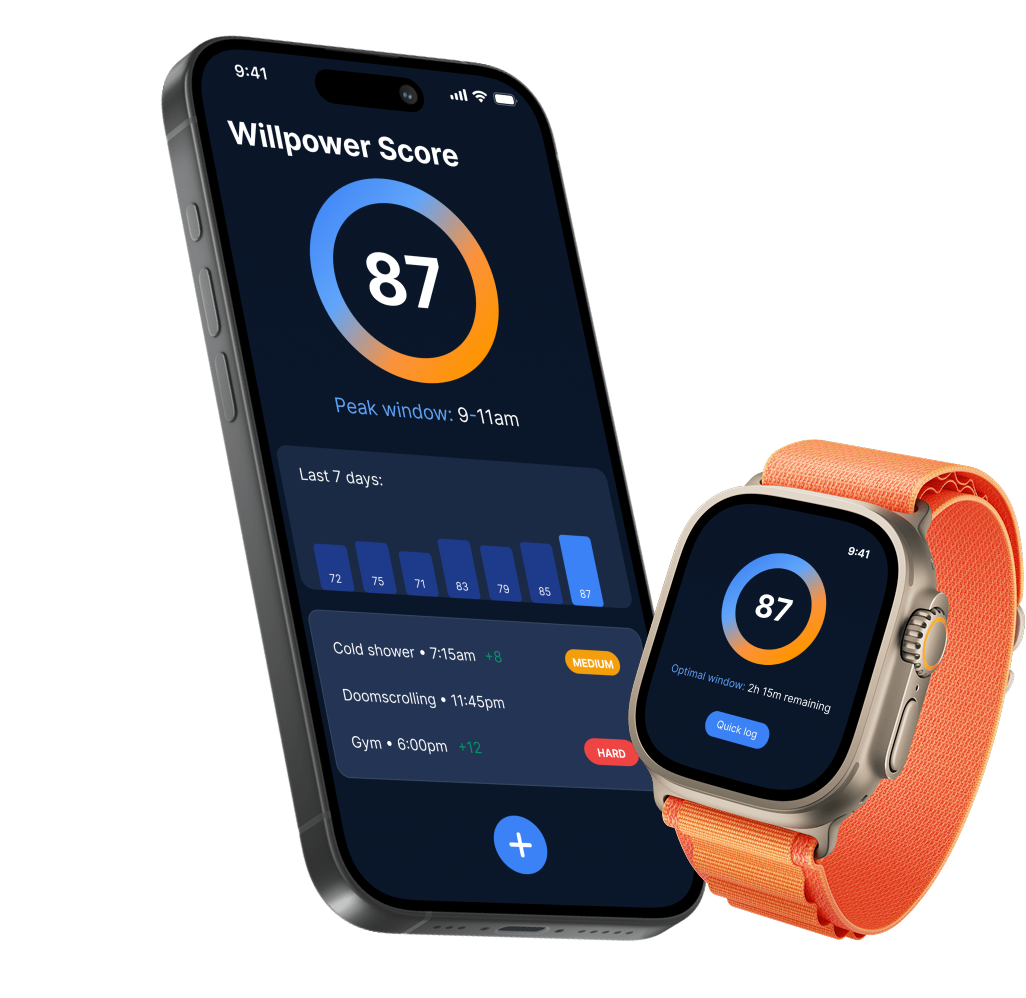
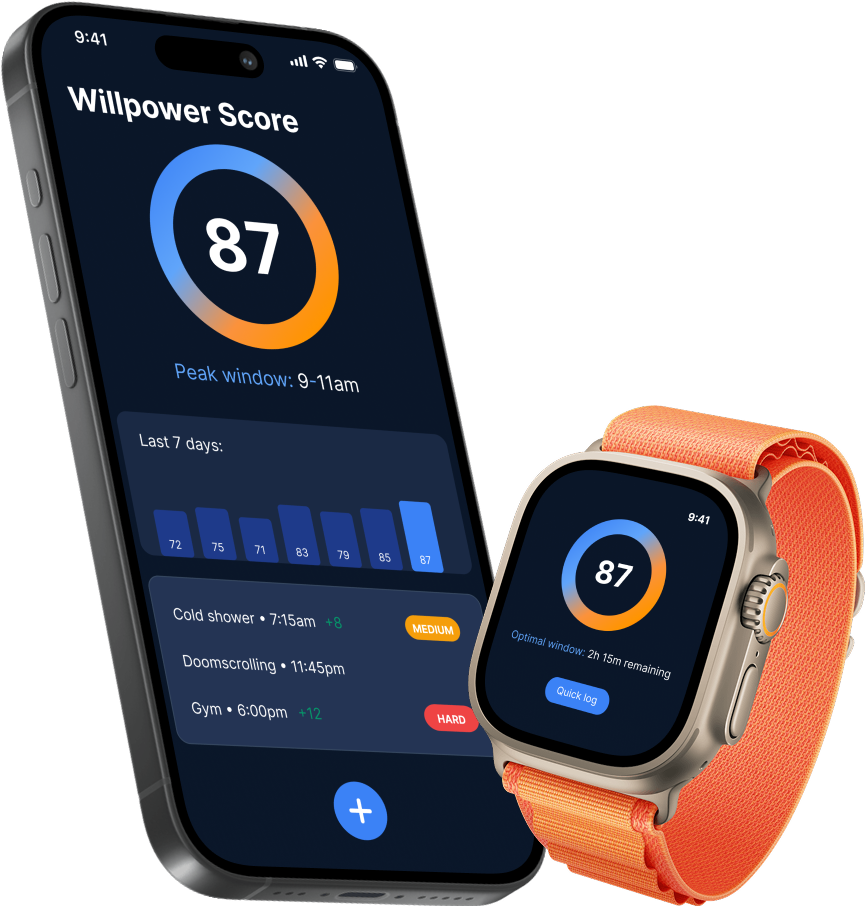
Fix mockup centering and update asset
- Improve mobile mockup container centering
- Update mockup.png to remove internal left padding

🤖 Generated with [Claude Code](https://claude.ai/code)

diff --git a/index.html b/index.html
@@ -352,7 +352,7 @@
     /* Responsive Mockup Container */
     .mockup-container {
       position: relative;
-      max-width: 800px;
+      max-width: 600px;
       margin: 0 auto;
     }
     
@@ -743,8 +743,8 @@
       }
 
       .mockup-container {
-        max-width: 100%;
-        margin: 20px 0;
+        max-width: 500px;
+        margin: 20px auto;
       }
 
       .hero-grid {
